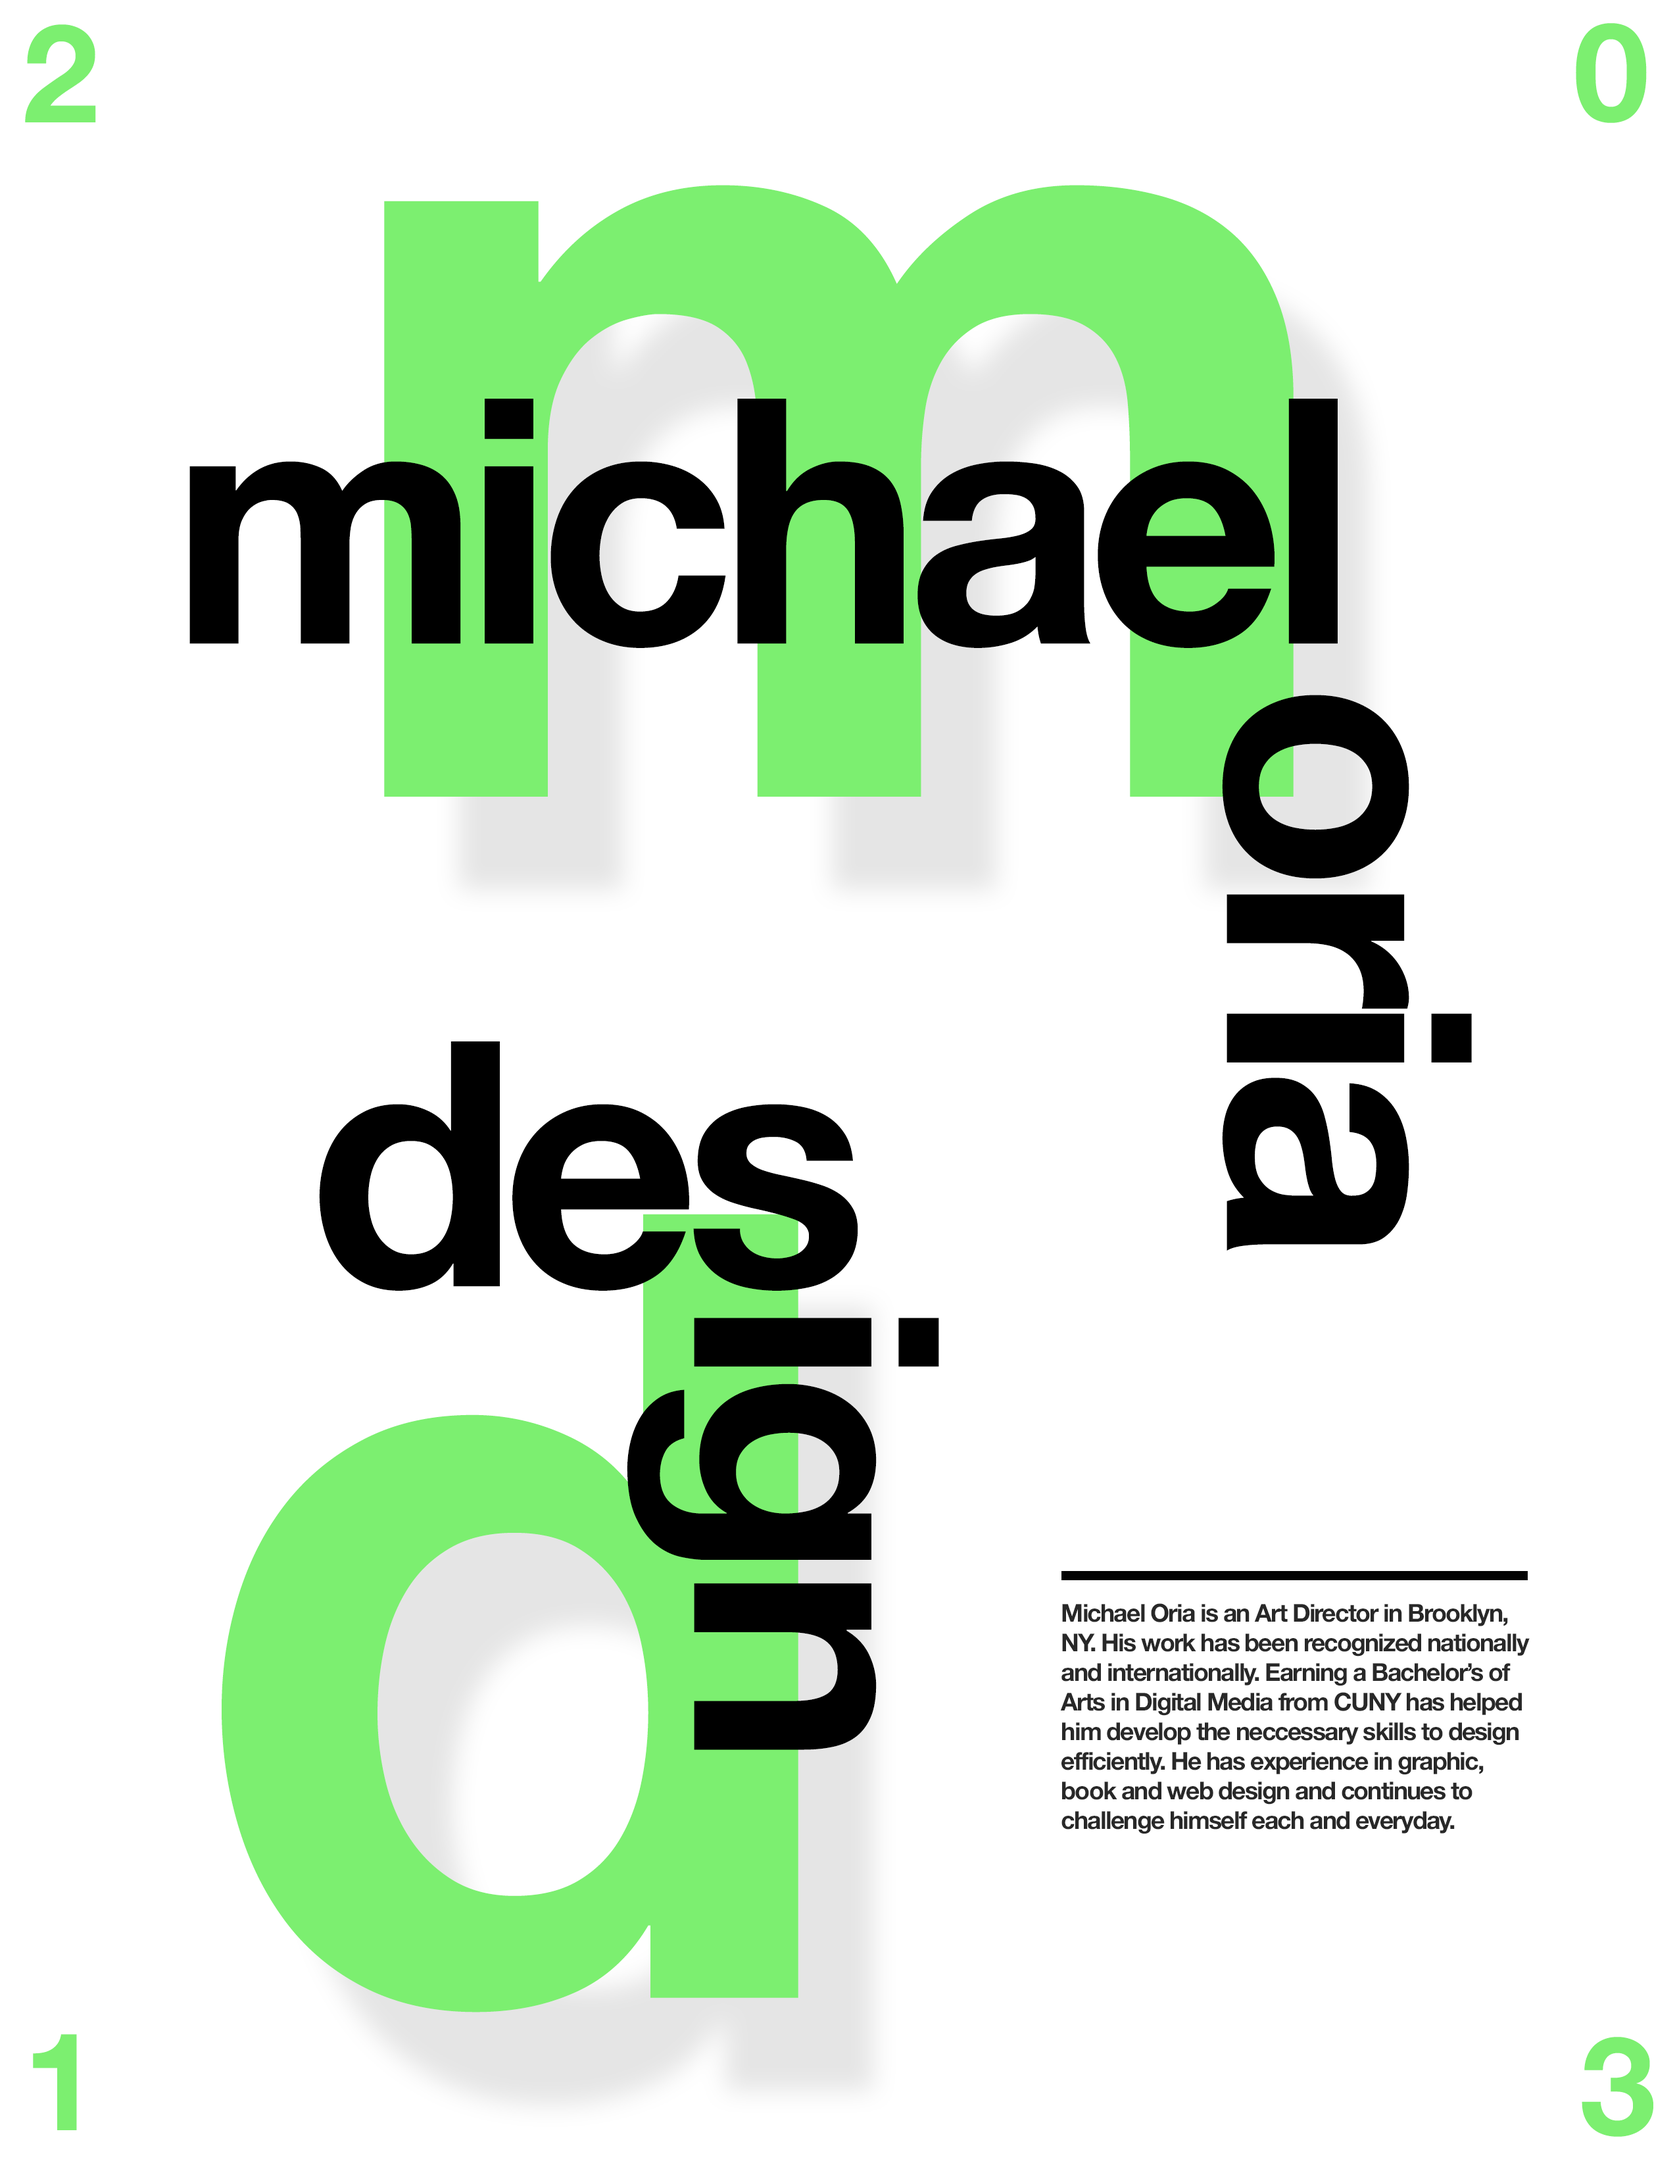
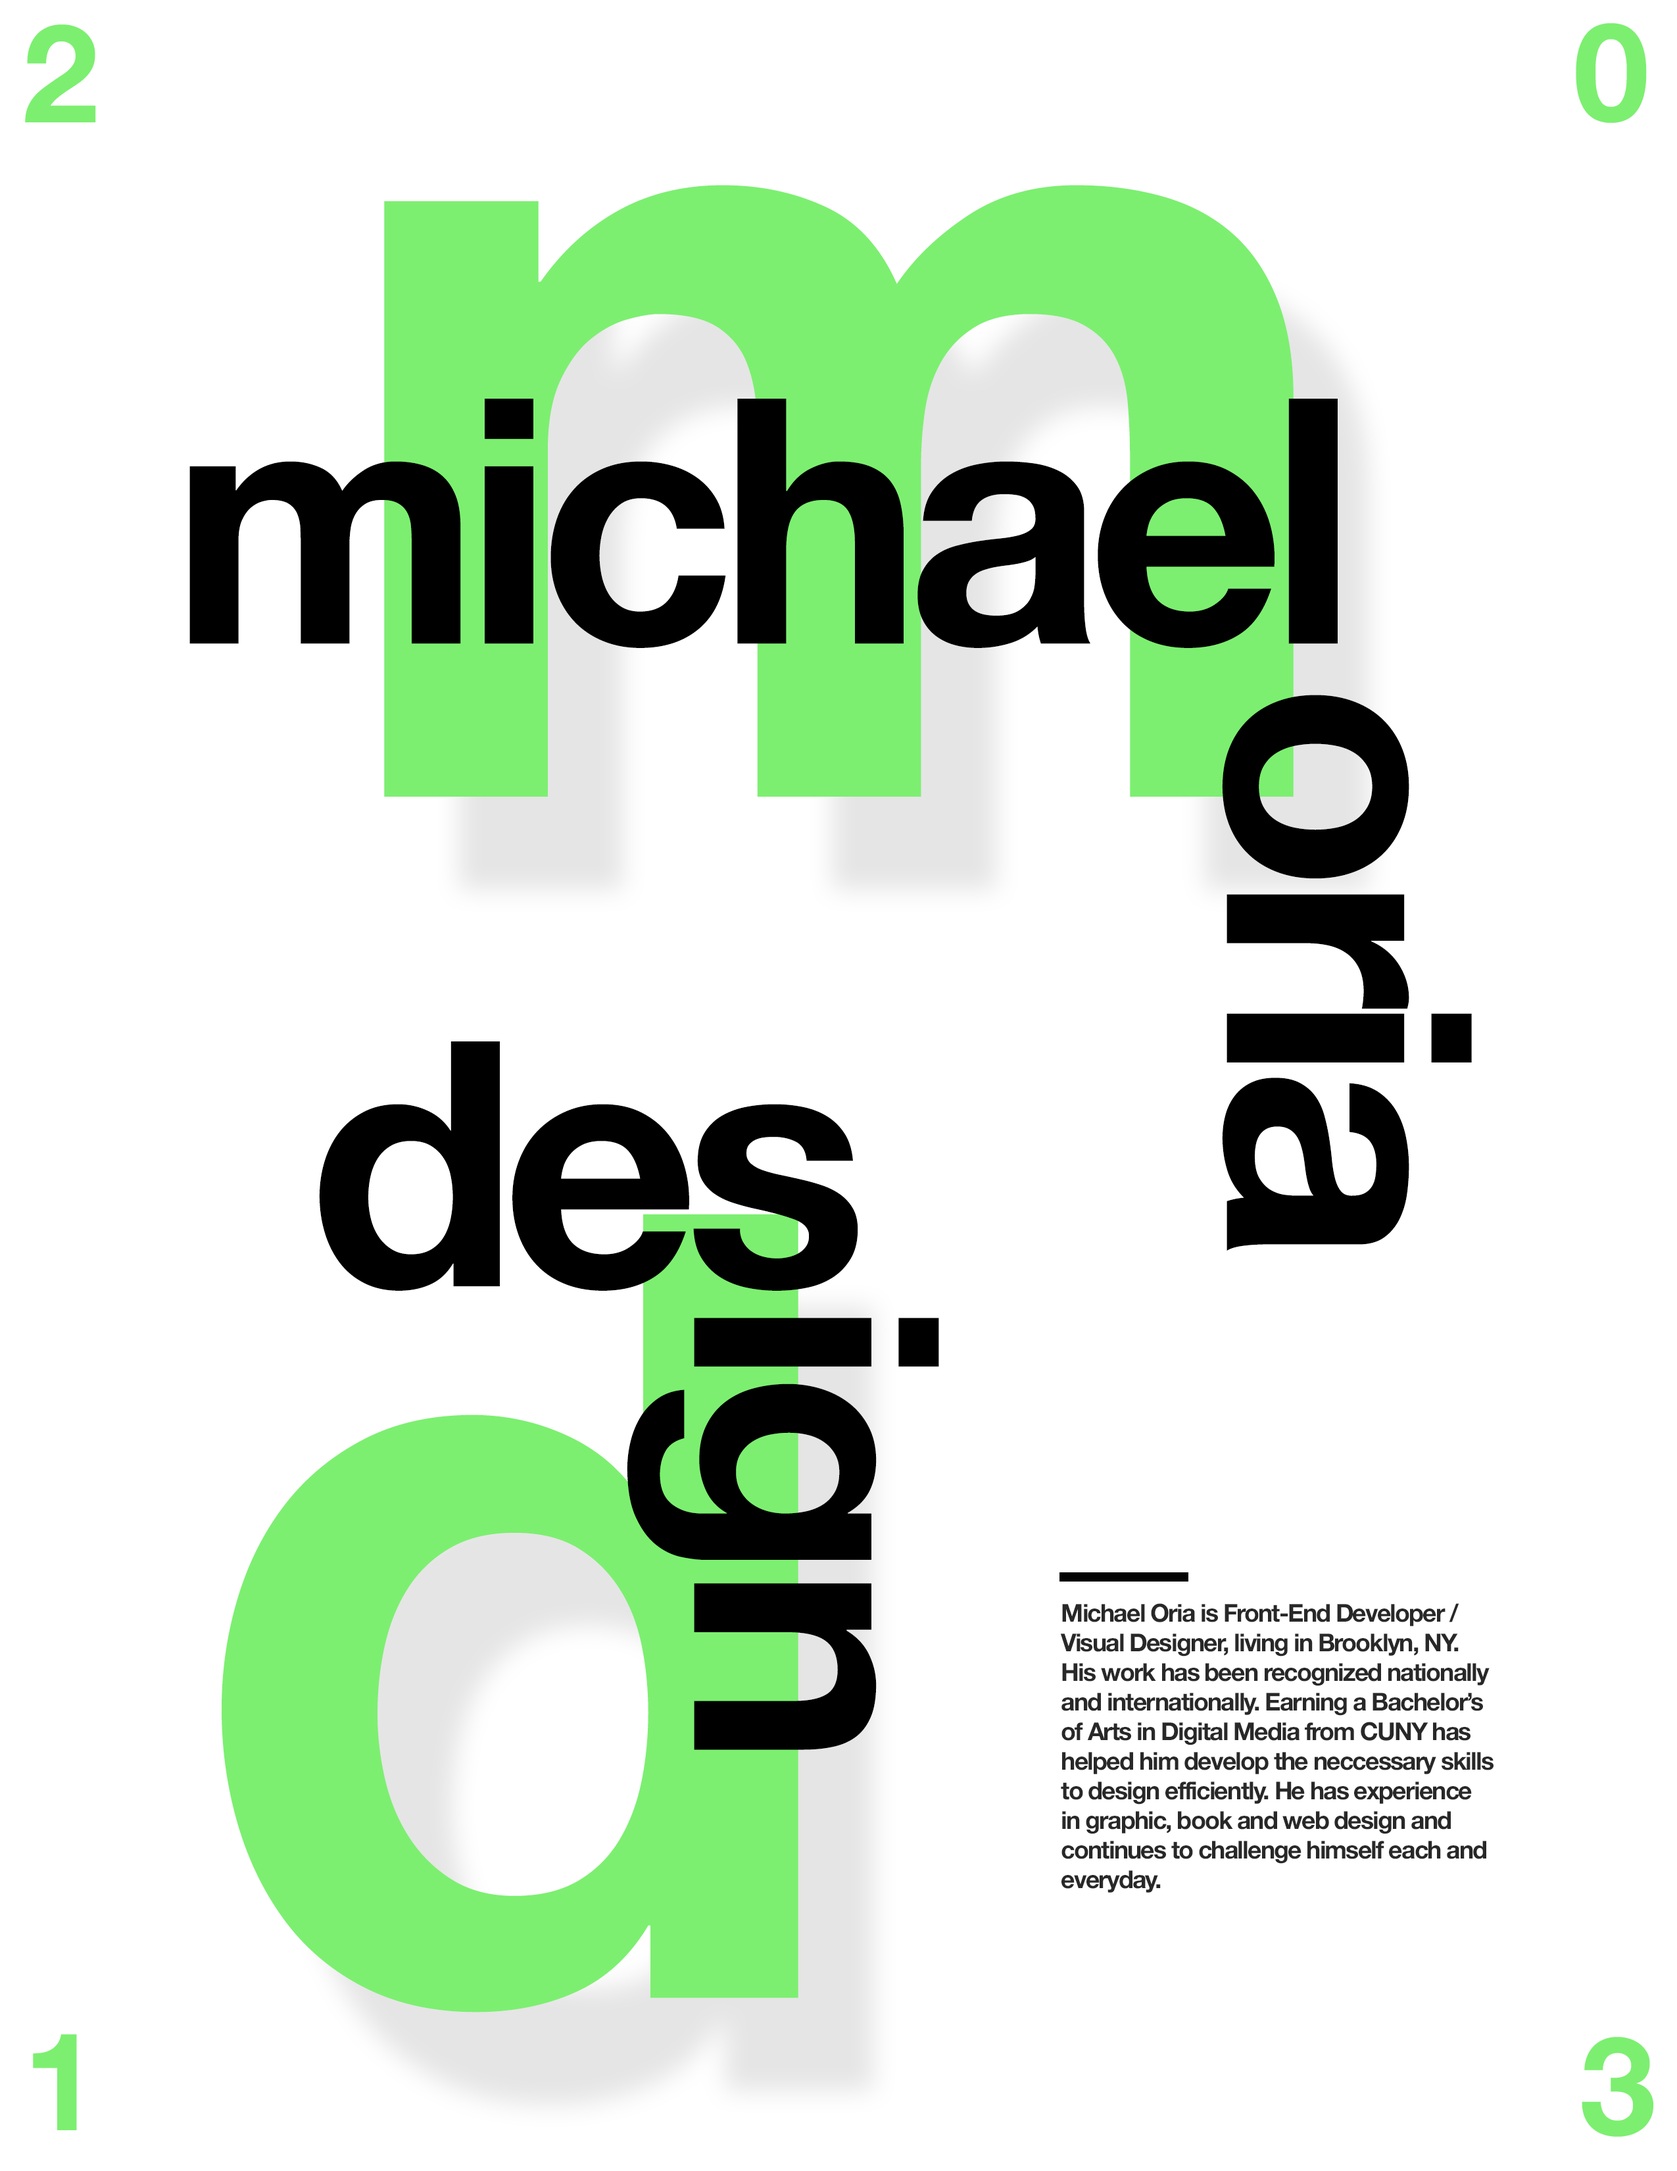
Small updates and tweaks to the content of the site.

Changed region(s): [[0.6196, 0.7179, 0.8984, 0.8739]]

diff --git a/hamburger_menu/index.html b/hamburger_menu/index.html
@@ -1,0 +1,173 @@
+<!doctype html>
+<html>
+<head>
+<meta charset="utf-8">
+<meta http-equiv="X-UA-Compatible" content="IE=edge,chrome=1">
+<meta name="viewport" content="width=device-width, initial-scale=1">
+<link href="http://www.cssscript.com/wp-includes/css/sticky.css" rel="stylesheet" type="text/css">
+<title>Flexbox Based Navigation Demo</title>
+<link href='http://fonts.googleapis.com/css?family=Roboto+Condensed' rel='stylesheet' type='text/css'>
+<style>
+h1 { margin:150px auto 10px auto; text-align:center; color:#fff;}
+nav {
+  margin: 50px auto;
+  max-width: 700px;
+  width: 95%;
+  font-family: 'Roboto Condensed', sans-serif;
+}
+
+#checkbox1,
+.toggle {
+  display: none;
+}
+
+.menu {
+  padding: 0;
+  margin: 0;
+  max-width: 700px;
+  height: 50px;
+  border-radius: 5px;
+  display: flex;
+  flex-direction: row;
+  justify-content: space-around;
+  align-items: center;
+  list-style-type: none;
+}
+
+.menu li a {
+  text-decoration: none;
+  align-self: center;
+  border-radius: 5px;
+  font-size: 14px;
+  padding: 10px 15px;
+  transition: background .2s linear;
+}
+
+@media screen and (max-width: 600px) {
+  .menu li a {
+    font-size: 13px;
+  }
+}
+
+@media screen and (max-width: 550px) {
+  .toggle {
+    clear: both;
+    display: block;
+    text-align: center;
+    font-size: 14px;
+    line-height: 40px;
+    cursor: pointer;
+    width: 100%;
+    height: 40px;
+    font-size: 18px;
+    color: #595959;
+    background: #dbdbdb;
+    border-bottom-left-radius: 5px;
+    border-bottom-right-radius: 5px;
+    transition: all .1s linear;
+  }
+  .toggle:hover {
+    background: #cecece;
+  }
+  #checkbox1:checked + label .demo li {
+    opacity: 1;
+    visibility: visible;
+    transition: all .7s linear;
+  }
+
+  #checkbox1:checked + label .demo {
+    height: 200px;
+  }
+  .menu {
+    border-radius: 0px;
+    border-top-left-radius: 5px;
+    border-top-right-radius: 5px;
+    display: flex;
+    flex-direction: column;
+    justify-content: space-around;
+    align-items: center;
+    height: 0px;
+    transition: height .3s linear;
+  }
+  .menu li {
+    display: flex;
+    /* magic */
+    align-self: center;
+    width: 95%;
+    opacity: 0;
+    visibility: hidden;
+  }
+  .menu li a {
+    width: 95%;
+    text-align: center;
+    align-self: center;
+    align-content: center;
+  }
+}
+
+.demo {
+  background: #625b60;
+}
+
+.demo li a {
+  color: #fff;
+}
+
+.demo li a:hover {
+  background: #6d6268;
+}
+
+body {
+  background: #6c6b6e;
+}
+</style>
+</head>
+
+<body>
+<div id="css-script-menu">
+  <div class="css-script-center">
+    <ul>
+      <li><a href="http://www.cssscript.com/image-caption-hover-animations-with-css3-transitions-and-transforms/">Download</a></li>
+      <li><a href="http://www.cssscript.com/">Back To CSS Script</a></li>
+    </ul>
+    <div class="css-script-ads">
+    <script type="text/javascript"><!--
+google_ad_client = "ca-pub-2783044520727903";
+/* CSSScript Demo Page */
+google_ad_slot = "3025259193";
+google_ad_width = 728;
+google_ad_height = 90;
+//-->
+</script>
+      <script type="text/javascript"
+src="http://pagead2.googlesyndication.com/pagead/show_ads.js">
+</script></div>
+    <div class="css-script-clear"></div>
+  </div>
+</div>
+<h1>Flexbox Based Navigation Demo</h1>
+<nav>
+  <input type="checkbox" id="checkbox1" />
+  <label for="checkbox1">
+<ul class="menu demo">
+  <li><a href="#">HOME</a></li>
+  <li><a href="#">ABOUT</a></li>  
+  <li><a href="#">CONTACT</a></li>  
+  <li><a href="#">FAQ</a></li>  
+</ul>
+  <span class="toggle">☰</span>
+  </label>
+</nav>
+
+<script>
+  (function(i,s,o,g,r,a,m){i['GoogleAnalyticsObject']=r;i[r]=i[r]||function(){
+  (i[r].q=i[r].q||[]).push(arguments)},i[r].l=1*new Date();a=s.createElement(o),
+  m=s.getElementsByTagName(o)[0];a.async=1;a.src=g;m.parentNode.insertBefore(a,m)
+  })(window,document,'script','//www.google-analytics.com/analytics.js','ga');
+
+  ga('create', 'UA-46156385-1', 'cssscript.com');
+  ga('send', 'pageview');
+
+</script>
+</body>
+</html>

diff --git a/index.html b/index.html
@@ -34,9 +34,8 @@
 
 				<div class="Technical_Creative">
 					
-					<h2>Michael J Oria | <strong>Web Developer  /  Writer  /  Graphic Designer  /  UX</strong></h2>
-						<p>I am a dedicated hard-worker whose passionate about the interdisciplinary field of Computing, Design, Art and Humanities. Please feel free to view my work and shoot me a message if you require any creative services. If you're having difficulties with the website, feel free to <strong><a href="mailto:administrator@michaeloria.com?Subject=Having%20Difficulties" target="_top">contact</a></strong> me.</p>
-
+					<h2>Michael J Oria | <strong>Front-End Developer / Visual Designer</strong></h2>
+						<p>I am a dedicated hard-worker whose passionate about the interdisciplinary field of Computing, Design, Art and Humanities. Please feel free to view my work and shoot me a message if you require any creative services. You can reach me <strong><a href="mailto:administrator@michaeloria.com?Subject=Having%20Difficulties" target="_top">here</a></strong>.</p>
 				</div>
 
 			<!-- END OF MICHAEL's BIO -->

diff --git a/style.css b/style.css
@@ -40,7 +40,7 @@ body {
 }
 
 .navigation a:hover {
-	background-color: #d9d9d9;
+	background-color: #f2f2f2;
 	opacity: .3;
 	border-radius: 5px;
 
